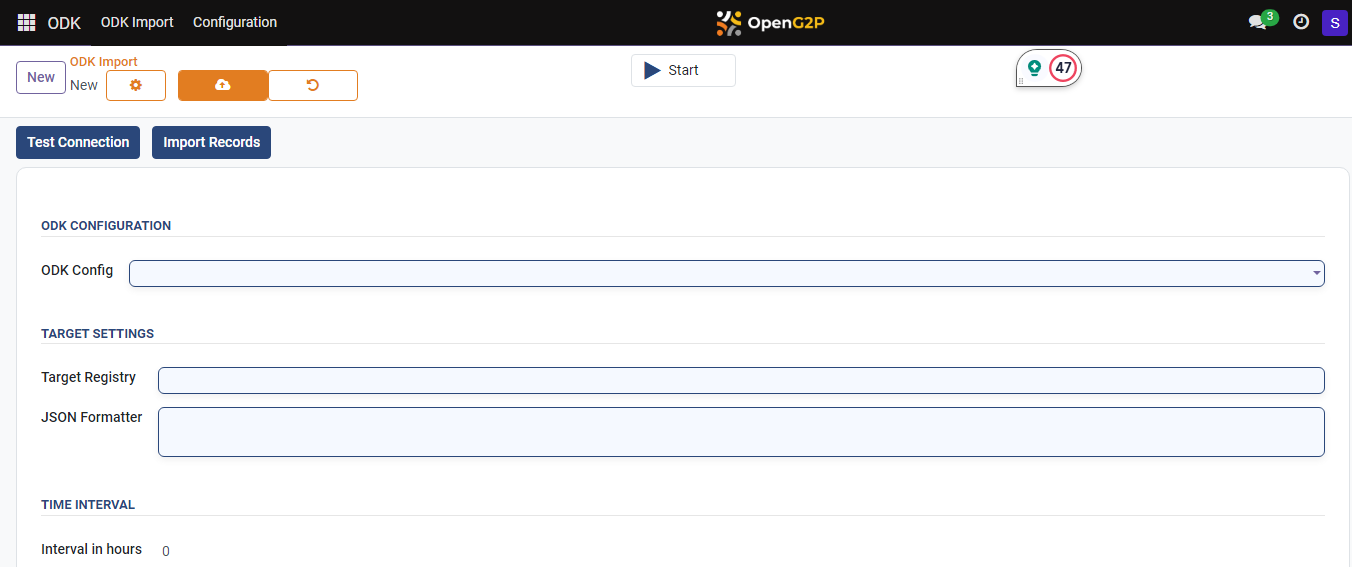
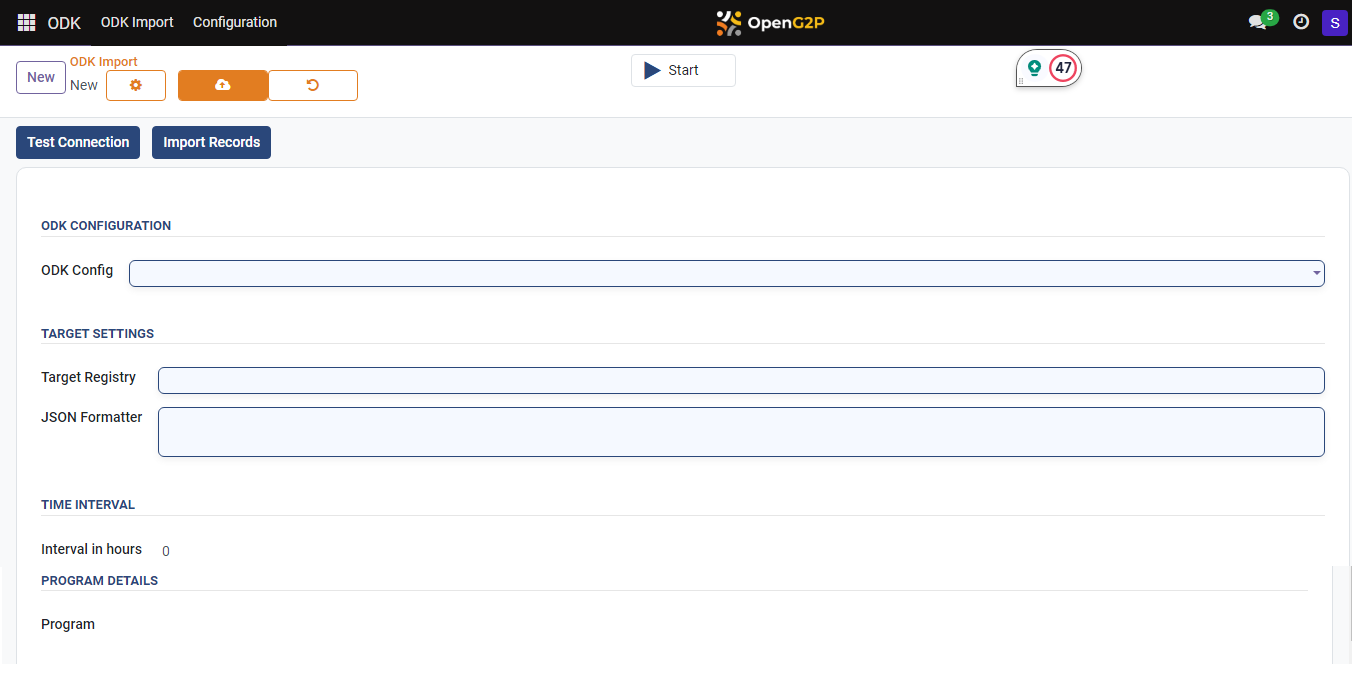
GITBOOK-1081: Review comments - PBMS - ODK Importer

diff --git a/pbms/features/odk-importer/user-guides/customize-the-odk-importer-configuration-based-on-the-odk-form-fields.md b/pbms/features/odk-importer/user-guides/customize-the-odk-importer-configuration-based-on-the-odk-form-fields.md
@@ -52,7 +52,7 @@ The fields and their descriptions are given below.
 
 3. Customize the ODK Importer based on the ODK form fields
 
-<table><thead><tr><th width="226">Parameters</th><th>Description</th></tr></thead><tbody><tr><td><strong>ODK CONFIGURATION</strong></td><td></td></tr><tr><td><strong>ODK  Config</strong></td><td>The name of the ODK configuration</td></tr><tr><td><strong>TARGET SETTINGS</strong></td><td></td></tr><tr><td><strong>Target Registry</strong></td><td><p>Specifies whether imported records should be associated with individual or group registries within the PBMS.</p><p>Select the appropriate value from the drop-down. The valid values are:</p><ul><li>Individual</li><li>Groups</li></ul></td></tr><tr><td><strong>JSON Formatter</strong></td><td>Enables users to define a custom JSON formatter for transforming retrieved data before importing it into the PBMS. Refer to relevant documentation for details on utilizing the JSON formatter using <a href="https://pypi.org/project/pyjq/">PYJQ library</a>.</td></tr><tr><td><strong>TIME INTERVAL</strong></td><td></td></tr><tr><td><strong>Interval in Hours (Optional)</strong></td><td>Defines the interval (in hours) at which the import process should be automatically triggered. This allows for scheduled data updates.</td></tr><tr><td><strong>ODK Program (Optional)</strong></td><td>Map the registrant into the program using ODK Import.</td></tr><tr><td><a href="customize-the-odk-importer-configuration-based-on-the-odk-form-fields.md#test-connection"><strong>Test Connection</strong></a></td><td><ul><li>Verifies the established connection between the ODK Importer and ODK Central.</li><li>Ensures that the ODK Importer can effectively communicate with ODK Central, the server hosting the ODK forms.</li><li>Enables seamless data transfer between the two systems</li></ul></td></tr><tr><td><a href="customize-the-odk-importer-configuration-based-on-the-odk-form-fields.md#import-records"><strong>Import Records</strong></a></td><td><ul><li>Tracks the progress of data import and identifies any errors that may occur during the process.</li><li>Provides users with real-time updates on the status of their data import, allowing them to quickly address any issues and ensure a smooth import process.</li></ul></td></tr><tr><td><strong>Start/Stop</strong></td><td><p> <em><strong>Start</strong></em> executes the scheduled job to run periodically at fixed times, dates, or intervals.</p><p><em><strong>Stop</strong></em> terminates the scheduled job.</p></td></tr></tbody></table>
+<table><thead><tr><th width="226">Parameters</th><th>Description</th></tr></thead><tbody><tr><td><strong>ODK CONFIGURATION</strong></td><td></td></tr><tr><td><strong>ODK  Config</strong></td><td>The name of the ODK configuration</td></tr><tr><td><strong>TARGET SETTINGS</strong></td><td></td></tr><tr><td><strong>Target Registry</strong></td><td><p>Specifies whether imported records should be associated with individual or group registries within the PBMS.</p><p>Select the appropriate value from the drop-down. The valid values are:</p><ul><li>Individual</li><li>Groups</li></ul></td></tr><tr><td><strong>JSON Formatter</strong></td><td>Enables users to define a custom JSON formatter for transforming retrieved data before importing it into the PBMS. Refer to relevant documentation for details on utilizing the JSON formatter using <a href="https://pypi.org/project/pyjq/">PYJQ library</a>.</td></tr><tr><td><strong>TIME INTERVAL</strong></td><td></td></tr><tr><td><strong>Interval in Hours (Optional)</strong></td><td>Defines the interval (in hours) at which the import process should be automatically triggered. This allows for scheduled data updates.</td></tr><tr><td><strong>PROGRAM DETAILS</strong></td><td></td></tr><tr><td><strong>Program</strong></td><td>Map the registrant into the program.</td></tr><tr><td><a href="customize-the-odk-importer-configuration-based-on-the-odk-form-fields.md#test-connection"><strong>Test Connection</strong></a></td><td><ul><li>Verifies the established connection between the ODK Importer and ODK Central.</li><li>Ensures that the ODK Importer can effectively communicate with ODK Central, the server hosting the ODK forms.</li><li>Enables seamless data transfer between the two systems</li></ul></td></tr><tr><td><a href="customize-the-odk-importer-configuration-based-on-the-odk-form-fields.md#import-records"><strong>Import Records</strong></a></td><td><ul><li>Tracks the progress of data import and identifies any errors that may occur during the process.</li><li>Provides users with real-time updates on the status of their data import, allowing them to quickly address any issues and ensure a smooth import process.</li></ul></td></tr><tr><td><strong>Start/Stop</strong></td><td><p> <em><strong>Start</strong></em> executes the scheduled job to run periodically at fixed times, dates, or intervals.</p><p><em><strong>Stop</strong></em> terminates the scheduled job.</p></td></tr></tbody></table>
 
 | Icon                                                                                         | Click to                                                                                                                                                                                                                                     |
 | -------------------------------------------------------------------------------------------- | -------------------------------------------------------------------------------------------------------------------------------------------------------------------------------------------------------------------------------------------- |
@@ -111,7 +111,7 @@ If the _**Test Connection**_ feature unable to connect the _**ODK Central**_ and
 
 ### Import Records
 
-_**Import Records**_ feature imports and stores the records in Social Registry.
+_**Import Records**_ feature imports and stores the records in PBMS.
 
 9. Click the _**Import Records**_ button.
 

diff --git a/pbms/features/odk-importer/README.md b/pbms/features/odk-importer/README.md
@@ -21,7 +21,7 @@ OpenG2P has built an ODK Importer module. It is specifically designed to tailor,
 * Eliminates manual data entry, improves data accuracy, and efficiency in data management.
 * Provides data import for automatic updates using the automated scheduler.
 
-<table><thead><tr><th width="213">Feature </th><th>Functionality</th></tr></thead><tbody><tr><td><strong>Data Import</strong></td><td><ul><li>Simplifies the process of entering data from the field using ODK forms into individual/group registries of the PBMS module, ensuring accuracy and effectiveness in data management.</li></ul></td></tr><tr><td><strong>Test Connection</strong></td><td><ul><li>Verifies the established connection between the ODK Importer and ODK Central.</li><li>Ensures that the ODK Importer can effectively communicate with ODK Central, the server hosting the ODK forms. </li><li>Enables seamless data transfer between the two systems.</li></ul></td></tr><tr><td><strong>Import Records</strong></td><td><ul><li>Tracks the progress of data import and identifies any errors that may occur during the process.  </li><li>Provides users with real-time updates on the status of their data import, allowing them to quickly address any issues and ensure a smooth import process.</li></ul><p>Note:</p><p>This feature is used when you want to retrieve data in bulk.</p></td></tr><tr><td><strong>Fetch Records</strong></td><td><ul><li>This feature enables users to retrieve a specific record from the ODK system using the unique ODK Instance ID. It works similarly to the standard import record process but offers more precision by allowing users to target a single record based on its unique identifier. </li><li>This is particularly useful when you need to retrieve specific record without importing the complete dataset.</li></ul><p>Note: </p><p>Make sure you have completed the <a href="user-guides/customize-the-odk-importer-configuration-based-on-the-odk-form-fields.md#configuration">Configuration</a> procedure to use this feature. To learn more on this feature, refer <a href="../../functionality/odk-importer/user-guides/import-specific-odk-forms.md">Import Specific ODK Form</a>.</p></td></tr><tr><td><strong>Automated Data Processing</strong></td><td><ul><li>Removes the risk of manual error, ensuring higher accuracy in data records.</li><li>Streamlines task, saves time and resources while enhancing overall operational efficiency.</li><li>Increases total operational efficiency, streamlines tasks, saves time and resources.</li></ul></td></tr><tr><td><strong>Automated Scheduler</strong></td><td><ul><li>Allows smooth updates that do not require operator intervention. This capability enables rapid and regular changes to data sets, improving data currency and relevancy.</li><li>Automates the import process, improves workflow efficiency, and avoids delay in processing</li></ul></td></tr></tbody></table>
+<table><thead><tr><th width="213">Feature </th><th>Functionality</th></tr></thead><tbody><tr><td><strong>Data Import</strong></td><td><ul><li>Simplifies the process of entering data from the field using ODK forms into individual/group registries of the PBMS module, ensuring accuracy and effectiveness in data management.</li></ul></td></tr><tr><td><strong>Test Connection</strong></td><td><ul><li>Verifies the established connection between the ODK Importer and ODK Central.</li><li>Ensures that the ODK Importer can effectively communicate with ODK Central, the server hosting the ODK forms. </li><li>Enables seamless data transfer between the two systems.</li></ul></td></tr><tr><td><strong>Import Records</strong></td><td><ul><li>Tracks the progress of data import and identifies any errors that may occur during the process.  </li><li>Provides users with real-time updates on the status of their data import, allowing them to quickly address any issues and ensure a smooth import process.</li></ul><p>Note:</p><p>This feature is used when you want to retrieve data in bulk.</p></td></tr><tr><td><strong>Fetch Records</strong></td><td><ul><li>This feature enables users to retrieve a specific record from the ODK system using the unique ODK Instance ID. It works similarly to the standard import record process but offers more precision by allowing users to target a single record based on its unique identifier. </li><li>This is particularly useful when you need to retrieve specific record without importing the complete dataset.</li></ul><p>Note: </p><p>Make sure you have completed the <a href="user-guides/customize-the-odk-importer-configuration-based-on-the-odk-form-fields.md#configuration">Configuration</a> procedure to use this feature. To learn more on this feature, refer <a href="../../functionality/odk-importer/user-guides/import-specific-odk-forms-using-instance-id.md">Import Specific ODK Form</a>.</p></td></tr><tr><td><strong>Automated Data Processing</strong></td><td><ul><li>Removes the risk of manual error, ensuring higher accuracy in data records.</li><li>Streamlines task, saves time and resources while enhancing overall operational efficiency.</li><li>Increases total operational efficiency, streamlines tasks, saves time and resources.</li></ul></td></tr><tr><td><strong>Automated Scheduler</strong></td><td><ul><li>Allows smooth updates that do not require operator intervention. This capability enables rapid and regular changes to data sets, improving data currency and relevancy.</li><li>Automates the import process, improves workflow efficiency, and avoids delay in processing</li></ul></td></tr></tbody></table>
 
 ## Process workflow
 

diff --git a/SUMMARY.md b/SUMMARY.md
@@ -116,7 +116,7 @@
     * [ODK Importer](pbms/features/odk-importer/README.md)
       * [📔 User Guides](pbms/features/odk-importer/user-guides/README.md)
         * [📔 Configure and Import ODK Form](pbms/features/odk-importer/user-guides/customize-the-odk-importer-configuration-based-on-the-odk-form-fields.md)
-        * [📔 Import Specific ODK Forms](pbms/functionality/odk-importer/user-guides/import-specific-odk-forms.md)
+        * [📔 Import Specific ODK Forms using Instance ID](pbms/functionality/odk-importer/user-guides/import-specific-odk-forms-using-instance-id.md)
     * [MTS Connector](pbms/functionality/mts-connector/README.md)
       * [📔 User Guides](pbms/functionality/mts-connector/user-guides/README.md)
         * [📔 Create MTS Connector](pbms/user-guides/eligibility-and-program-enrollment/mts-connector/create-mts-connector/README.md)

diff --git a/pbms/functionality/odk-importer/user-guides/import-specific-odk-forms-using-instance-id.md b/pbms/functionality/odk-importer/user-guides/import-specific-odk-forms-using-instance-id.md
@@ -12,11 +12,11 @@ layout:
     visible: true
 ---
 
-# 📔 Import Specific ODK Forms
+# 📔 Import Specific ODK Forms using Instance ID
 
 
 
-This document provides instructions for importing specific applicants/registrants' ODK forms hosted in ODK Central. It uses the unique [**Instance ID**](import-specific-odk-forms.md#instance-id) of the ODK forms to import them into the PBMS modules' relevant individual/group registries.
+This document provides instructions for importing specific applicants/registrants' ODK forms hosted in ODK Central. It uses the unique [**Instance ID**](import-specific-odk-forms-using-instance-id.md#instance-id) of the ODK forms to import them into the PBMS modules' relevant individual/group registries.
 
 ## Prerequisites
 
